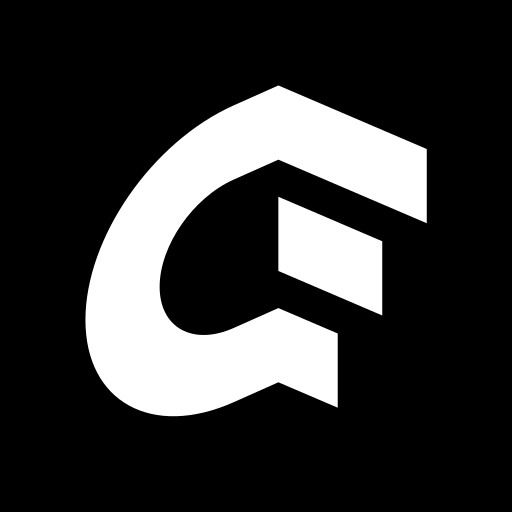
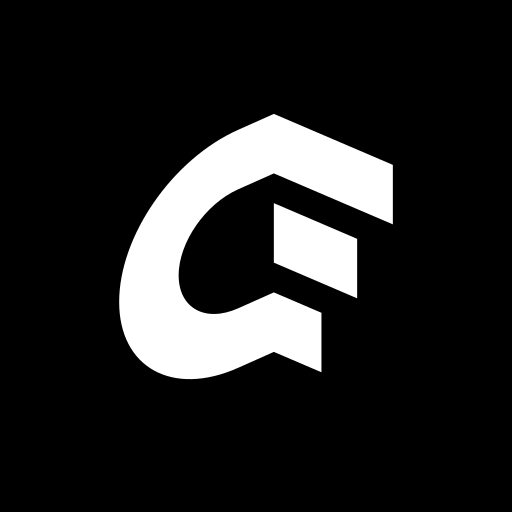
Went back to a PNG maskable; tried to use safe areas

Changed region(s): [[0.1562, 0.1562, 0.8438, 0.8125]]

diff --git a/vite.config.ts b/vite.config.ts
@@ -27,7 +27,8 @@ export default defineConfig({
         name: 'Underfoot',
         short_name: 'Underfoot',
         description: 'The world beneath your feet',
-        theme_color: '#ffffff',
+        theme_color: '#000000',
+        background_color: '#ffffff',
         icons: [
           {
             src: 'icon-192x192.png',
@@ -46,9 +47,9 @@ export default defineConfig({
             purpose: 'any'
           },
           {
-            src: 'mask-icon.svg',
-            sizes: '108x108',
-            type: 'image/svg+xml',
+            src: 'icon-512x512.png',
+            sizes: '512x512',
+            type: 'image/png',
             purpose: 'maskable'
           }
         ]
